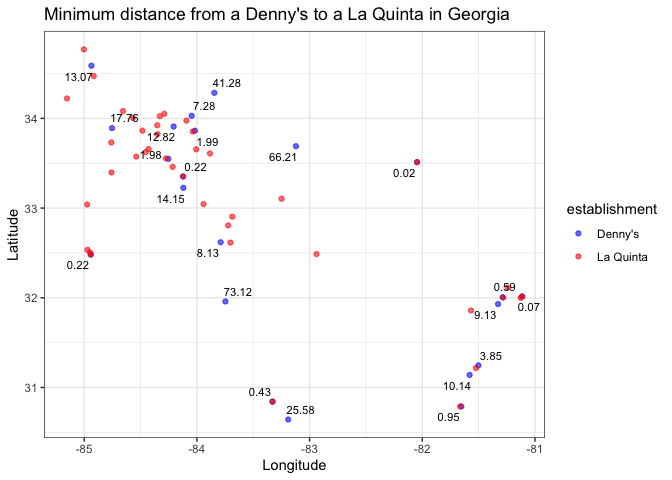
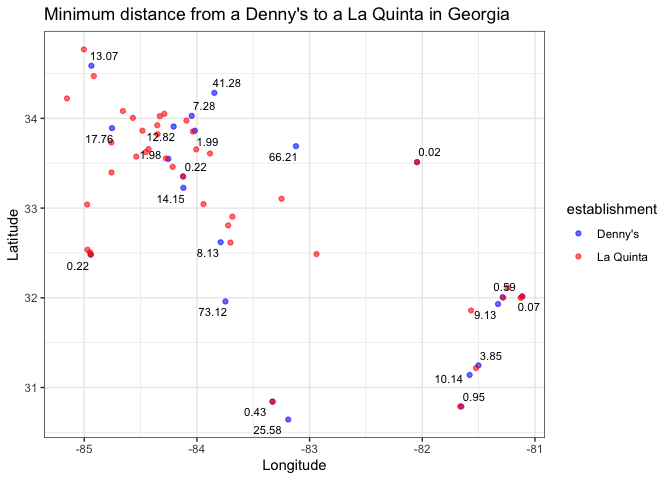
Updated descriptions

diff --git a/lab-05.md b/lab-05.md
@@ -86,7 +86,6 @@ dn_lq_ak_mindist %>%
    y = closest
   )) +
   theme_bw()+
-  
     geom_col(fill = "#6a4e93") +
   labs(
     title = "Minimum distance from a Denny's to a La Quinta in Alaska",
@@ -246,19 +245,24 @@ Texas has a ton of low distances based on the datasets.
 
 ## Visual by geographic location
 
-I also decided to graph these relationships geographically, using
-longitude and latitude. There are issues related to my calculation of
-the closest distances. I grouped by Denny’s addresses only (address.x),
-but the map includes both Denny’s and La Quinta locations. I also have
-the max.overlaps set to the default within geom_text_repel(). These two
-issues create problems related to not all distances being represented.
+Although the assignment didn’t ask for it, I also decided to graph these
+relationships geographically. I used longitude and latitude from the
+previous assignment along with the relevant information in this one.
+There are issues related to my calculation of the closest distances. I
+grouped by Denny’s addresses only (address.x), but the map includes both
+Denny’s and La Quinta locations. I also have the max.overlaps set to the
+default within geom_text_repel(). These two issues create problems
+related to my graphs not including all distances being represented. I
+included what would happen if these issues were fixed.
 
 <figure>
-<img src="Messy_plot.png"
-alt="What would happen if I fixed these issues?" />
-<figcaption aria-hidden="true">What would happen if I fixed these
-issues?</figcaption>
+<img src="Messy_plot.png" alt="The plot has now become unreadable" />
+<figcaption aria-hidden="true">The plot has now become
+unreadable</figcaption>
 </figure>
+
+Based on this becoming unreadable, I have left the cleaner plots to
+represent my capabilities as a coder early on in my learning.
 
 ### Alaska
 
